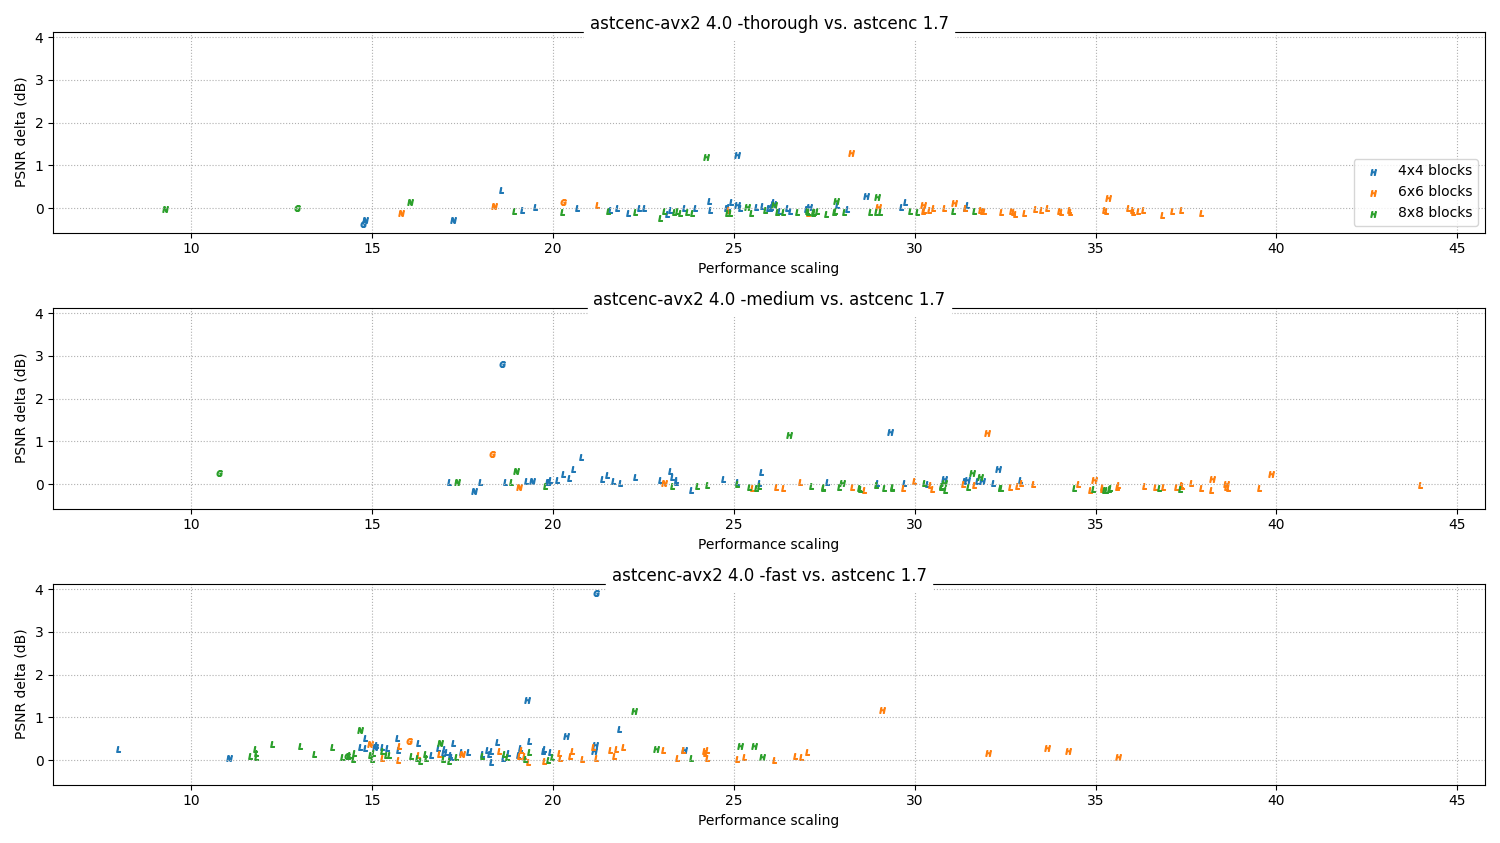
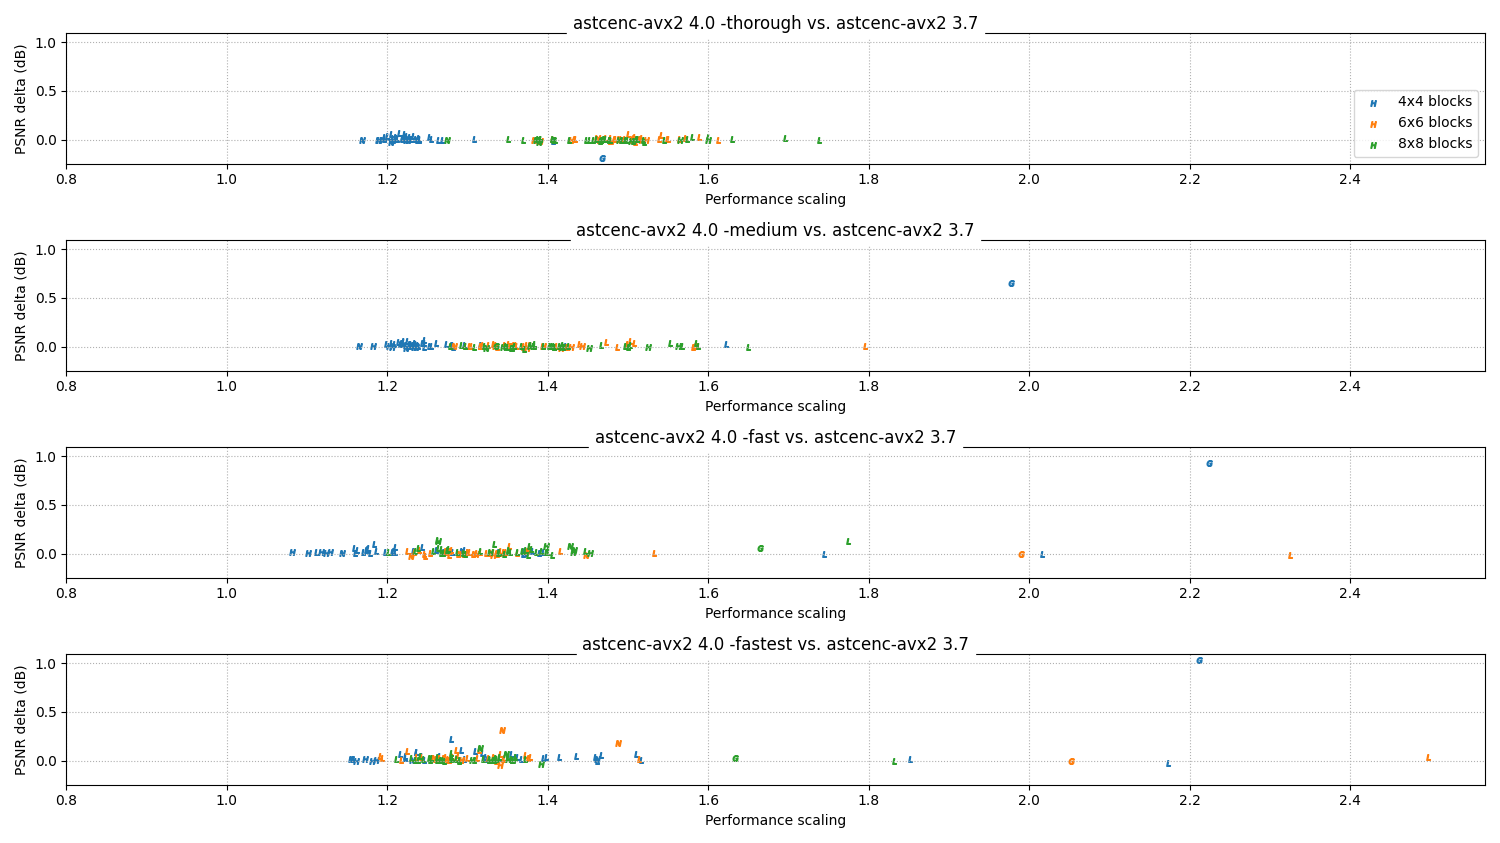
Update 4.0 changelog image

diff --git a/Docs/ChangeLog-4x.md b/Docs/ChangeLog-4x.md
@@ -77,7 +77,7 @@ Key for charts:
 * Color = block size (see legend).
 * Letter = image format (N = normal map, G = grayscale, L = LDR, H = HDR).
 
-**Relative performance vs 3.5 release:**
+**Relative performance vs 3.7 release:**
 
 ![Relative scores 4.0 vs 3.7](./ChangeLogImg/relative-3.7-to-4.0.png)
 
